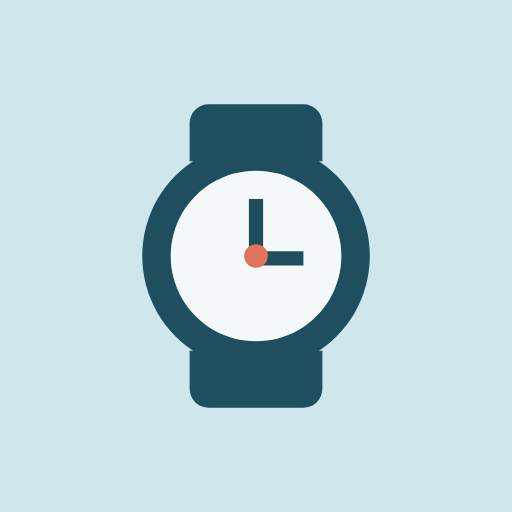
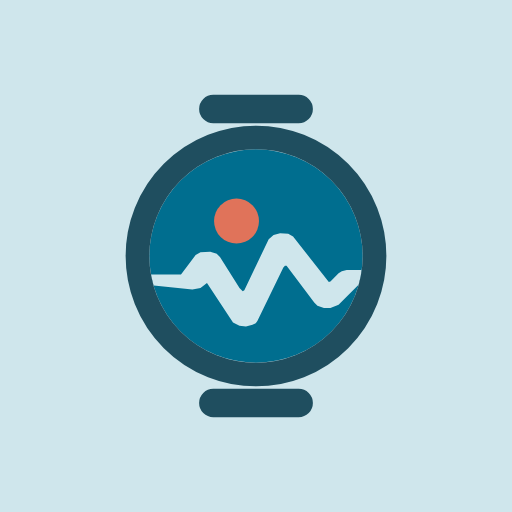
Move to Hale: the organisation, the links and the OpenWatch mark
The organisation is now Hale-MTU and the documentation lives at
docs.hale.ngo. The privacy-policy link the app opens and the one in the
Play setup notes, the default repository in the version-code script,
the workflow URL in the release skill, the OpenVitals link in the
README and the clone path in the sideload how-to follow. The supported
scales link pointed at docs.openvitals.health, which no longer answers;
it opens the scales page in the OpenVitals docs.

The icon was a plain watch glyph with no brand mark. It is now the
OpenWatch mark: the OpenVitals logo, traced from the organisation
profile's PNG, as the dial of a watch, with the heartbeat clipped to a
primary-teal disc, the dot in coral, a deep-teal bezel and strap stubs.
The same drawing is the phone foreground, the watch foreground and the
Play icon; the monochrome layer keeps the bezel, stubs, heartbeat and
dot with the dial left open, and still serves as the watch's
notification small icon.

Settings shows the publisher under the version line, "Hale · hale.ngo",
the same line OpenVitals shows, a name and an address that read the
same in every language.

Claude-Session: https://claude.ai/code/session_01ASmCva6eA2e3t1bA4VrdiD

Changed region(s): [[0.2188, 0.1562, 0.7812, 0.8438]]

diff --git a/app/src/main/kotlin/tech/mmarca/openwatch/features/settings/SettingsScreen.kt b/app/src/main/kotlin/tech/mmarca/openwatch/features/settings/SettingsScreen.kt
@@ -118,6 +118,11 @@ fun SettingsScreen(
             modifier = Modifier.padding(top = Spacing.md),
         )
         Text(
+            text = stringResource(R.string.settings_app_publisher),
+            style = MaterialTheme.typography.bodySmall,
+            color = MaterialTheme.colorScheme.onSurfaceVariant,
+        )
+        Text(
             text = stringResource(R.string.settings_about_body),
             style = MaterialTheme.typography.bodySmall,
             color = MaterialTheme.colorScheme.onSurfaceVariant,

diff --git a/docs/how-to/wear-os-sideload.md b/docs/how-to/wear-os-sideload.md
@@ -10,7 +10,7 @@ Everything below is driven by three small scripts in the repository: `scripts/we
 
 On the computer:
 
-- A clone of the OpenWatch repository (`OpenVitals-MTU/OpenWatch`).
+- A clone of the OpenWatch repository (`Hale-MTU/OpenWatch`).
 - Android platform-tools (`adb`). The script finds it on `PATH`, in `$ANDROID_HOME/platform-tools`, or in the default SDK location under your home directory.
 - To build the watch app yourself: a JDK and the Android SDK, the same setup as [development.md](../engineering/development.md). To install an APK you already have, neither is needed; pass it with `--apk`.
 - Optional: `avahi-browse` (package `avahi-utils`) makes discovery more reliable on Linux desktops that run their own mDNS daemon.

diff --git a/docs/engineering/development.md b/docs/engineering/development.md
@@ -175,7 +175,7 @@ By hand, once, outside the repository:
    listing (`fastlane/metadata/android/` holds the text and the 512 px icon; the feature
    graphic and screenshots are added in the Console), the content rating, the Data safety
    form and the Health Connect declaration, and set the privacy policy URL to
-   `https://github.com/OpenVitals-MTU/OpenWatch/blob/main/PRIVACY.md`. Play refuses an API
+   `https://github.com/Hale-MTU/OpenWatch/blob/main/PRIVACY.md`. Play refuses an API
    upload to an app with no release, so the first bundle on each track goes up by hand, from
    the first run's GitHub prerelease.
 3. The service account, invited in Users and permissions with release rights on this app.

diff --git a/.claude/skills/release/SKILL.md b/.claude/skills/release/SKILL.md
@@ -24,7 +24,7 @@ the commit with the release notes, and pushes in one motion.
   be English-only (`python3 scripts/verify-translations.py` reports coverage). Say so in the
   notes when a screen is English-only in a shipping locale.
 - The release workflow is enabled: `state` is `active` in
-  `https://api.github.com/repos/OpenVitals-MTU/OpenWatch/actions/workflows/release.yml`.
+  `https://api.github.com/repos/Hale-MTU/OpenWatch/actions/workflows/release.yml`.
   A tag pushed while it is disabled starts nothing, and enabling it afterwards does not
   replay the push.
 

diff --git a/README.md b/README.md
@@ -1,6 +1,6 @@
 # OpenWatch
 
-The devices half of [OpenVitals](https://github.com/OpenVitals-MTU/android-app): a Wear OS
+The devices half of [OpenVitals](https://github.com/Hale-MTU/android-app): a Wear OS
 watch app, the phone-to-watch link, and a phone app that pairs a Garmin or Wear OS watch and
 a Xiaomi S400 scale, copies what they record into Health Connect, and manages them. OpenVitals
 stays the dashboard that shows the data; OpenWatch is where it comes from.
